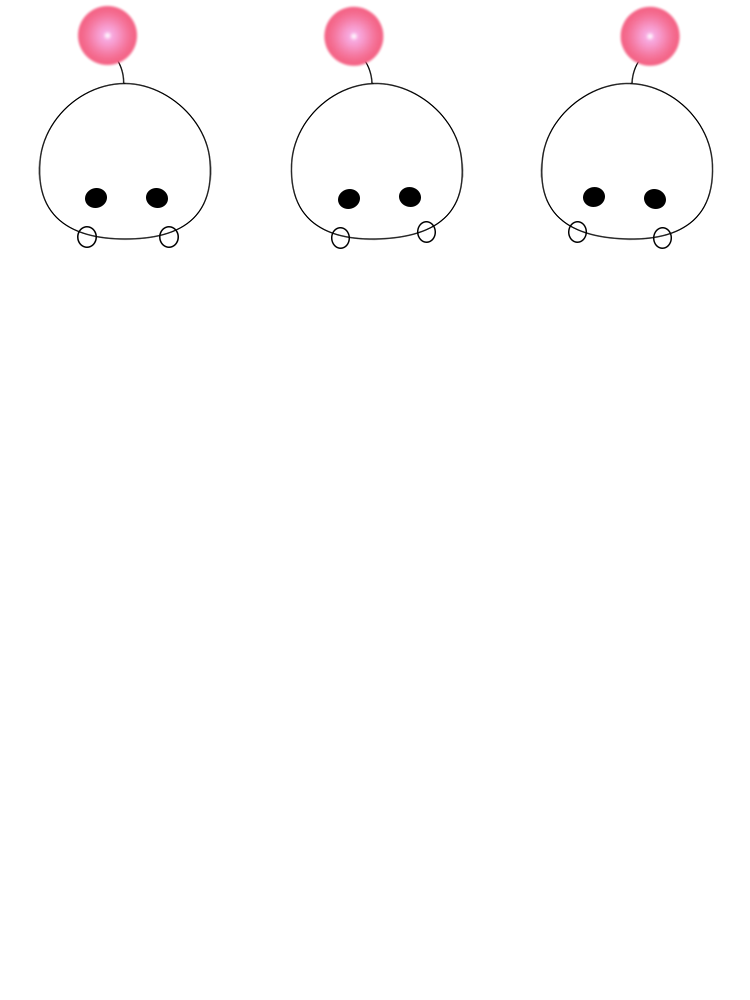
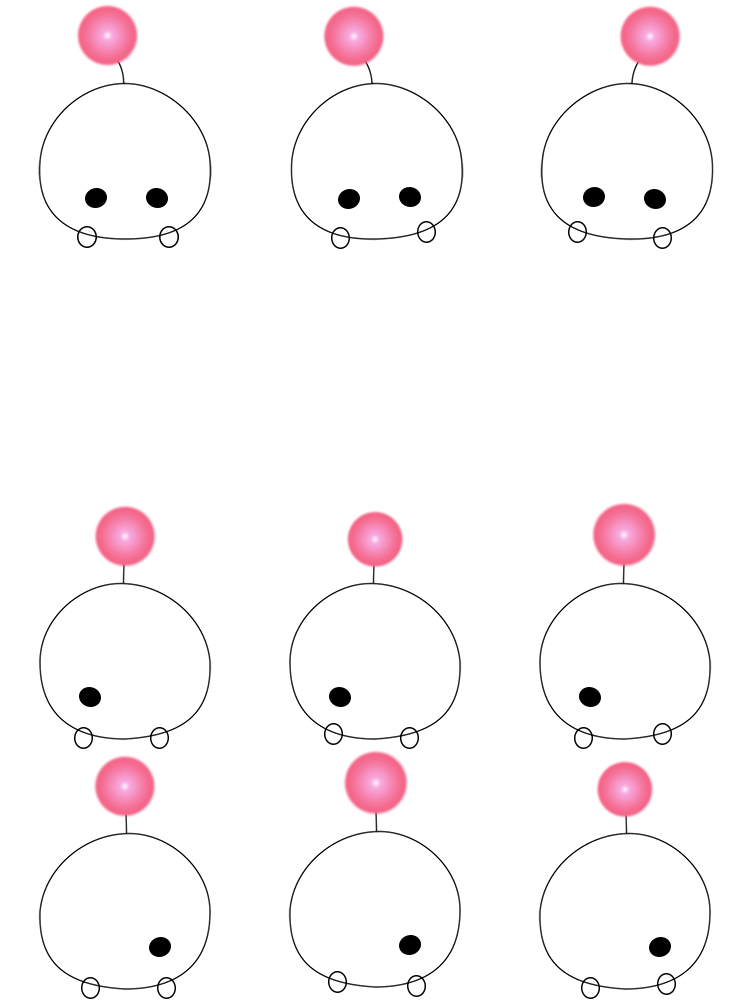
title画面に手を加えるよ。

diff --git a/Classes/TitleCharacter.cpp b/Classes/TitleCharacter.cpp
@@ -1,5 +1,4 @@
 #include "TitleCharacter.h"
-#include "CharacterAnimation.h"
 
 using namespace cocos2d;
 
@@ -7,9 +6,11 @@ bool TitleCharacter::init()
 {
 	if (!Sprite::init()) return false;
 
-	CharacterAnimation* charAnim = CharacterAnimation::create("Character/TitleAnim.png", Size(250, 250));
+	charAnim = CharacterAnimation::create("Character/TitleAnim.png", Size(250, 250));
 	this->addChild(charAnim);
-	charAnim->changeAnimation(CharacterAnimation::eDIR::FRONT);
+	charAnim->changeAnimation(DIR::RIGHT);
+
+	_state = eSTATE::MOVE;
 
 	return true;
 }
@@ -28,4 +29,39 @@ TitleCharacter* TitleCharacter::create()
 		pRet = NULL;
 		return NULL;
 	}
+}
+
+void TitleCharacter::update(float delta)
+{
+	switch (_state)
+	{
+	case TitleCharacter::MOVE:
+		if (_timer > 5.0f)
+		{
+			_state = eSTATE::STAND;
+			_timer = 0.0f;
+			charAnim->changeAnimation(DIR::FRONT);
+			charAnim->stopAnimation();
+		}
+		break;
+	case TitleCharacter::STAND:
+		if (_timer > 2.0f)
+		{
+			_state = eSTATE::JUMP;
+			_timer = 0.0f;
+
+		}
+		break;
+	case TitleCharacter::JUMP:
+		if (_timer > 2.0f)
+		{
+			_state = eSTATE::MOVE;
+			_timer = 0.0f;
+
+		}
+		break;
+	default:
+		break;
+	}
+	_timer += delta;
 }

diff --git a/Classes/SelectBackground.cpp b/Classes/SelectBackground.cpp
@@ -1,4 +1,5 @@
 #include "SelectBackground.h"
+#include "AllTags.h"
 
 using namespace cocos2d;
 
@@ -22,7 +23,13 @@ bool SelectBackground::init()
 {
 	if (!Node::init()) return false;
 
-	ParticleSystemQuad* a = ParticleSystemQuad::create("SelectBack.plist");
+	int sizeX = 0, sizeY = 0;
+	float sumX = 0.0f, sumY = 0.0f;
+	ParticleSystemQuad* p = ParticleSystemQuad::create("Select/SelectBack.plist");
+	p->setPosition(designResolutionSize*0.5f);
+	p->setPosVar(designResolutionSize*0.5f);
+	p->setEmissionRate(0.00010417 * (designResolutionSize.width*designResolutionSize.height));
+	this->addChild(p);
 
 	return true;
 }

diff --git a/Classes/TitleCharacter.h b/Classes/TitleCharacter.h
@@ -2,6 +2,7 @@
 #define _TitleCharacter_h_
 
 #include "cocos2d.h"
+#include "CharacterAnimation.h"
 
 class TitleCharacter : public cocos2d::Sprite
 {
@@ -9,6 +10,17 @@ public:
 	bool init();
 	static TitleCharacter* create();
 	cocos2d::Animation* anim;
+	void update(float delta);
+private:
+	float _timer = 0.0f;
+	CharacterAnimation* charAnim;
+	enum eSTATE
+	{
+		MOVE,
+		STAND,
+		JUMP
+	};
+	eSTATE _state;
 };
 
 #endif // !_TitleCharacter_h_

diff --git a/Classes/SelectLayer.cpp b/Classes/SelectLayer.cpp
@@ -1,5 +1,6 @@
 #include "SelectLayer.h"
 #include "PictureManager.h"
+#include "SelectBackground.h"
 
 using namespace cocos2d;
 
@@ -28,6 +29,10 @@ bool SelectLayer::init()
 
 	PictureManager* pictureManager = PictureManager::create();
 	this->addChild(pictureManager);
+
+	SelectBackground* selectBackground = SelectBackground::create();
+	selectBackground->setZOrder(-1);
+	this->addChild(selectBackground);
 
 	return true;
 }

diff --git a/Classes/TitleBackground.cpp b/Classes/TitleBackground.cpp
@@ -9,7 +9,7 @@ bool TitleBackground::init()
 {
 	if (!Node::init()) return false;
 
-	auto scSp = ScrollSprite::create("BACK.JPG", -5, ScrollSprite::portrait);
+	auto scSp = ScrollSprite::create("BACK.JPG", 5, ScrollSprite::landscape);
 	this->addChild(scSp);
 
 	return true;

diff --git a/Classes/CharacterAnimation.h b/Classes/CharacterAnimation.h
@@ -4,6 +4,7 @@
 #include "cocos2d.h"
 
 #define STR(var) #var
+#define DIR CharacterAnimation::eDIR
 
 /*
 
